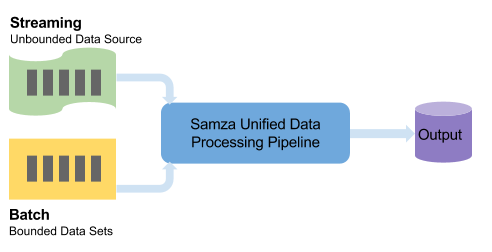
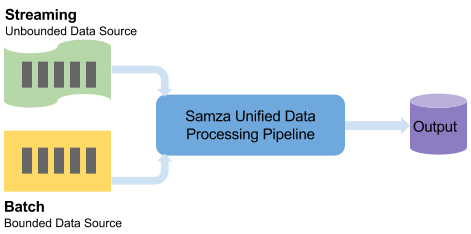
Update based on Jake's comments

Changed region(s): [[0.0, 0.2692, 1.0, 0.9872], [0.0, 0.0299, 0.2972, 0.4487], [0.0297, 0.4487, 0.0594, 0.4786]]

diff --git a/docs/learn/documentation/versioned/hadoop/overview.md b/docs/learn/documentation/versioned/hadoop/overview.md
@@ -19,28 +19,28 @@ title: Batch Processing Overview
    limitations under the License.
 -->
 
-Samza provides a unified data processing model for both stream and batch processing. In Samza batch is treated as a special case of streaming: the sources are bounded data sets in batch, whereas unbounded data sets in streaming. Under the hood, it’s the same highly-efficient stream-processing engine.
+Samza provides a unified data processing model for both stream and batch processing. The primary difference between batch and streaming is whether the input size is bounded or unbounded. Batch data sources are typically bounded (e.g. static files on HDFS), whereas streams are unbounded (e.g. a topic in Kafka). Under the hood, the same highly-efficient stream-processing engine handles both types.
 
-![diagram-medium](/img/{{site.version}}/learn/documentation/hadoop/unified_batch_streaming.png)
+<img src="/img/{{site.version}}/learn/documentation/hadoop/unified_batch_streaming.png" alt="Unified Batch and Streaming" style="max-width: 100%; height: auto;" onclick="window.open(this.src)">
 
 ### Unified API for Batch and Streaming
 
-Samza provides a single set of APIs for both batch and stream processing. This unified programming API makes it convenient for you to focus on the processing logic, without treating bounded source and unbounded source differently. Switching between batch and streaming only requires config change, e.g. [Kafka](../api/overview.html) to [HDFS](./consumer.html), instead of any code change.
+Samza provides a single set of APIs for both batch and stream processing. This unified programming API makes it convenient for you to focus on the processing logic, without treating bounded and unbounded sources differently. Switching between batch and streaming only requires config change, e.g. [Kafka](../api/overview.html) to [HDFS](./consumer.html), instead of any code change.
 
 ### Multi-stage Batch Pipeline
 
-Complex data pipelines usually consist multiple stages, with data shuffled (repartitioned) across stages for various windowing, aggregation and join. Samza [high-level API](/startup/preview/index.html) provides a useful operator named `partitionBy` to help the repartitioning of the data. Internally, Samza creates a physical stream, called an “intermediate stream”, sends the previous stage output to the stream, and then feed it to the next stage of the pipeline. The lifecycle of intermediate streams is completely managed by Samza so from the user perspective the data shuffling is automatic.
+Complex data pipelines usually consist multiple stages, with data shuffled (repartitioned) between stages to enable key-based operations such as windowing, aggregation, and join. Samza [high-level API](/startup/preview/index.html) provides an operator named `partitionBy` to create such multi-stage pipelines. Internally, Samza creates a physical stream, called an “intermediate stream”, based on the system configured as in `job.default.system`. Samza repartitioned the previous stage output to the intermediate stream, and then feed it to the next stage of the pipeline. The lifecycle of intermediate streams is completely managed by Samza so from the user perspective the data shuffling is automatic.
 
 For a single-stage pipeline, dealing with bounded data sets is straightforward: the system consumer “knows” the end of a particular partition, and it will emit end-of-stream token once a partition is complete. Samza will shut down the container when all its input partitions are complete.
 
-For a multi-stage pipeline, however, things become tricky since intermediate streams are often physically unbounded data streams, e.g. Kafka, and the downstream stages don't know when to shut down since unbounded streams don't have an end. To solve this problem, Samza uses in-band end-of-stream control messages in the intermediate stream along with user data messages. The upstream stage broadcasts end-of-stream control messages to every partition of the intermediate stream, and the downstream stage will aggregate the messages received and conclude an intermediate stream partition reaches to the end once the aggregation result matches all its upstream tasks. The following diagram shows the flow:
+For a multi-stage pipeline, however, things become tricky since intermediate streams are often physically unbounded data streams, e.g. Kafka, and the downstream stages don't know when to shut down since unbounded streams don't have an end. To solve this problem, Samza uses in-band end-of-stream control messages in the intermediate stream along with user data messages. The upstream stage broadcasts end-of-stream control messages to every partition of the intermediate stream, and the downstream stage will aggregate the end-of-stream messages for each partition. When one end-of-stream message has been received for every upstream task in a partition, the downstream stage will conclude that the partition has no more messages, and the task will shut down. For pipelines with more than 2 stages, the end-of-stream control messages will be propagated from the source to the last stage, and each stage will perform the end-of-stream aggregation and then shuts down. The following diagram shows the flow:
 
-![diagram-medium](/img/{{site.version}}/learn/documentation/hadoop/multi_stage_batch.png)
+<img src="/img/{{site.version}}/learn/documentation/hadoop/multi_stage_batch.png" alt="Multi-stage Batch Processing" style="max-width: 100%; height: auto;" onclick="window.open(this.src)">
 
 ### State and Fault-tolerance
 
 Samza’s [state management](../container/state-management.html) and [fault-tolerance](../container/checkpointing.html) apply the same to batch. You can use in-memory or RocksDb as your local state store which can be persisted by changelog streams. In case of any container failures, Samza will restart the container by reseeding the local store from changelog streams, and resume processing from the previous checkpoints.
 
-During a job restart, batch processing behaves completely different from streaming. In batch, it is expected to be a fresh re-run and all the internal streams, including intermediate, checkpoint and changelog streams, need to be cleaned up before the run. To achieve this, Samza assigns a unique **run.id** to each job run. The **run.id** is appended to the physical stream name when Samza creates these internal topics. So for each run, the job will have a new set of internal streams to work with. Samza also performs due diligence to delete/purge the streams from previous run.
+During a job restart, batch processing behaves completely different from streaming. In batch, it is expected to be a re-run and all the internal streams, including intermediate, checkpoint and changelog streams, need to be fresh. Since some systems only support retention-based stream cleanup, e.g. Kafka without deletion enabled, Samza creates a new set of internal streams for each job run. To achieve this, Samza internally generates a unique **run.id** to each job run. The **run.id** is appended to the physical names of the internal streams, which will be used in the job in each run. Samza also performs due diligence to delete/purge the streams from previous run. The cleanup happens when the job is restarted.
 
 ## [Reading from HDFS &raquo;](./consumer.html)
